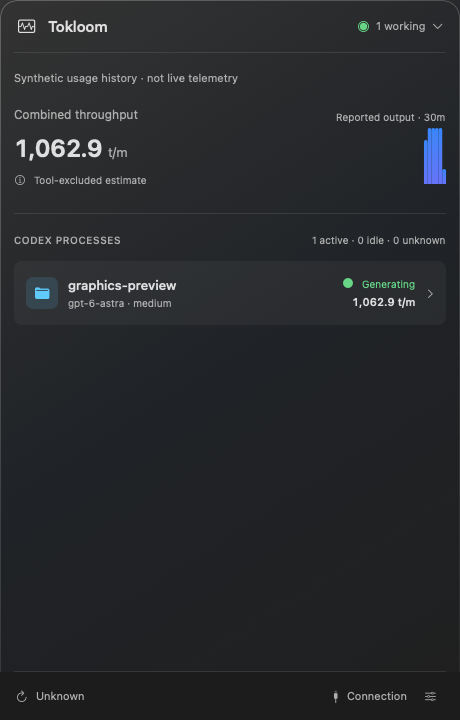
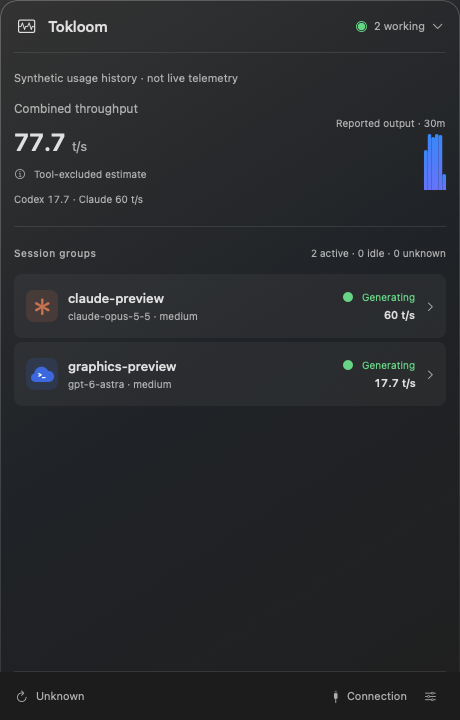
docs: show Claude Code in the first README screenshot and intro
Render the overview fixture with a Codex and a Claude session so the first
screenshot shows the combined speed, per-provider split and both icons, and
mention Claude Code support in the introduction (English and Korean).

diff --git a/Tests/CodexHubAppTests/FixtureHarness.swift b/Tests/CodexHubAppTests/FixtureHarness.swift
@@ -254,8 +254,28 @@ import CodexHubCollector
         historyModel.language = .korean
         historyModel.page = .overview
         try capture(historyModel, "wide-overview-chart", output, dark: true)
-        historyModel.language = .english
-        try capture(historyModel, "readme-overview-en", output, dark: true)
+        var claudeMonitor = ThreadMonitor(key: ThreadKey(homeID: "claude:/Synthetic", runID: nil, threadID: "claude-preview"), source: .rolloutLog, epoch: "claude")
+        try claudeMonitor.setConnectivity(.connected, at: 0)
+        try claudeMonitor.observeUsage(TokenUsage(outputTokens: 0), turnID: "history", source: .rolloutLog, epoch: "claude", at: 0, historical: true)
+        try claudeMonitor.startTurn("claude-turn", at: 0)
+        try claudeMonitor.observeUsage(TokenUsage(outputTokens: 600, inputTokens: 40000, cachedInputTokens: 32000), turnID: "claude-turn", source: .rolloutLog, epoch: "claude", at: 303, rateInterval: .excludingTools(10))
+        try claudeMonitor.setGenerating(true, turnID: "claude-turn", at: 303)
+        var claudeRow = SessionPresentation(monitor: claudeMonitor, cwd: "/Synthetic/claude-preview", model: "claude-opus-5-5")
+        claudeRow.provider = .claude
+        claudeRow.rootObserved = true
+        claudeRow.process = ProcessIdentity(pid: 4242, osStartTime: "fixture")
+        claudeRow.usageDetails = try JSONDecoder().decode(SessionUsageDetails.self, from: Data("{\"reasoningEffort\":\"medium\"}".utf8))
+        let claudePoints = stride(from: 3, to: 302, by: 7).enumerated().map { UsageHistoryPoint(time: Double($1), outputTokens: [20, 35, 10, 50, 28][$0 % 5]) }
+        let readme = HubPresentation()
+        readme.notice = historyModel.notice
+        readme.restoreUsageHistory(historyModel.usageHistory.merging([claudeMonitor.key: claudePoints]) { current, _ in current })
+        readme.sessions = [historyModel.sessions[0], claudeRow]
+        readme.frame = try ReportedFrame(monitors: readme.sessions.map(\.monitor), verifiedIndependentThreads: Set(readme.sessions.map(\.id)), at: 303)
+        precondition(readme.providerBreakdown?.hasPrefix("Codex ") == true && readme.providerBreakdown?.contains("Claude 60") == true, "UI96 combined speed lists each provider when both run")
+        readme.language = .english
+        try capture(readme, "readme-overview-en", output, dark: true)
+        readme.language = .korean
+        try capture(readme, "readme-overview-ko", output, dark: true)
         historyModel.language = .korean
         historyModel.page = .detail(historyModel.sessions[0].id)
         try capture(historyModel, "wide-detail-full-dark", output, dark: true, height: 1600)
@@ -381,7 +401,7 @@ import CodexHubCollector
         precondition(hiddenModel.visibleUnattached.count == 1 && hiddenModel.processCount == 1, "UI95 unidentified processes are listed by default")
         hiddenModel.hideUnattached = true
         precondition(hiddenModel.visibleUnattached.isEmpty && hiddenModel.processCount == 0 && hiddenModel.summary == "실행 없음", "UI95 unidentified processes can be hidden")
-        print("PASS UI01–UI95 and P01–P07; fixture PNGs: \(output)")
+        print("PASS UI01–UI96 and P01–P07; fixture PNGs: \(output)")
     }
     @MainActor static func verifyRunningProcesses() throws {
         let root = FileManager.default.temporaryDirectory.appendingPathComponent(UUID().uuidString)

diff --git a/README.md b/README.md
@@ -3,7 +3,7 @@
 <div align="center">
   <img src="Resources/AppIcon.png" alt="Tokloom app icon" width="112" />
   <h1>Tokloom</h1>
-  <p><strong>Your Codex workflow, at a glance.</strong></p>
+  <p><strong>Your Codex and Claude Code workflow, at a glance.</strong></p>
   <p>See what's running, how much it has generated,<br />and how much of your usage allowance remains—all from the menu bar.</p>
   <p><sub>macOS 14+ · Apple Silicon · SwiftUI + AppKit · English / 한국어</sub></p>
   <p>
@@ -16,8 +16,9 @@
 
 ---
 
-Tokloom is a native menu bar monitor for developers using Codex. Keep your existing terminal and track running processes, output speed, and token usage in one place.
+Tokloom is a native menu bar monitor for developers using Codex or Claude Code. Keep your existing terminal and track running processes, output speed, and token usage for both tools in one place.
 
+- **Codex and Claude Code together** — running Claude Code sessions appear beside Codex ones, each marked with its own icon, and their speeds add up to one combined number (see [Claude Code sessions](#claude-code-sessions)).
 - **Follow your work** — menu bar `t/s` or `t/m`, per-process speed, and working/idle states.
 - **Keep 30 minutes of history** — minute-by-minute output charts that survive app restarts.
 - **Inspect each session** — model, reasoning effort, context utilization, input/output tokens, and remaining usage allowance.
@@ -31,8 +32,8 @@ Tokloom is a native menu bar monitor for developers using Codex. Keep your exist
   <tr>
     <td width="50%" align="center" valign="top">
       <h3>01 · Work at a glance</h3>
-      <p>Combined speed, active processes,<br />and observed output over the last 30 minutes.</p>
-      <a href="docs/images/overview-en.png"><img src="docs/images/overview-en.png" alt="Tokloom overview showing speed, output history and process status" width="340" /></a>
+      <p>Combined Codex and Claude speed, active sessions,<br />and observed output over the last 30 minutes.</p>
+      <a href="docs/images/overview-en.png"><img src="docs/images/overview-en.png" alt="Tokloom overview showing combined Codex and Claude Code speed, output history and session status" width="340" /></a>
     </td>
     <td width="50%" align="center" valign="top">
       <h3>02 · Inside each session</h3>
@@ -207,7 +208,7 @@ Deletion and retention apply to Tokloom metadata. Managed files are cleaned up o
 
 ## Verification and documentation
 
-Completed checks include 79 Core/Collector tests, 102 synthetic UI/process checks (UI01–UI95 and P01–P07), and arm64 app builds. See the records below for dates and conditions. Synthetic renders and code tests do not prove every native interaction or server integration.
+Completed checks include 79 Core/Collector tests, 103 synthetic UI/process checks (UI01–UI96 and P01–P07), and arm64 app builds. See the records below for dates and conditions. Synthetic renders and code tests do not prove every native interaction or server integration.
 
 The full PRD is not release-complete. Remaining verification includes TUI/approval/G0, VoiceOver, long-running operation, physical macOS 14 devices, Live tokenizer equivalence, and complete hook/provider execution paths. A user-installed hook is separate from automated execution/trust verification.
 
